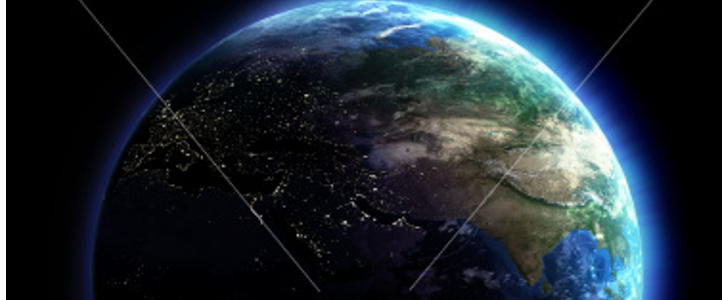
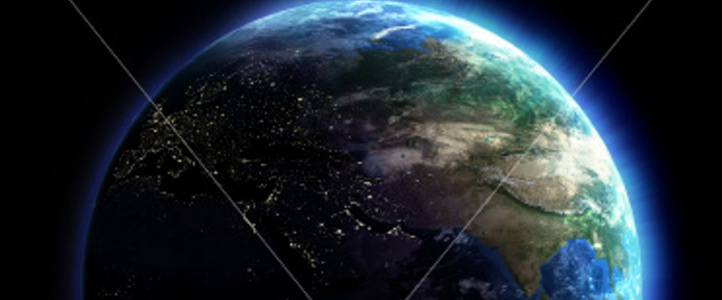
very close to finishing slideshow

diff --git a/fox_slideshow/show.js b/fox_slideshow/show.js
@@ -1,0 +1,157 @@
+var load = window.onload;
+window.onload = function() {
+    if(load) load(); //don't overwrite the previous onload event if it exists! just call in order
+    show_init();
+}
+
+var show = {
+    selected_index: -1,
+    hover_index: -1,
+    bgs: [], //references to bg divs
+    tabs: [], //reference to tab divs
+    flyouts: [], //references to flyout divs
+    flyout_wrapper: document.getElementById("show_flyout"),
+    bg_zindex: 100,
+    flyout_zindex: 200,
+    select: function(ix) {
+        var sx = this.selected_index;
+        if (sx == ix) return; //this tab is already selected
+        if(sx > -1) {
+            this.tabs[sx].className = "";
+        }
+        this.tabs[ix].className = "selected";
+        this.bg_zindex = (this.bg_zindex + 1) % 100;
+        this.bgs[ix].style.zIndex = this.bg_zindex;
+        this.selected_index = ix;
+        this.transition();
+    },
+
+    transition: function() {
+        var bg = this.bgs[this.selected_index],
+            update = function(y) {
+                bg.style.top = y;
+            };
+        kill_animation();
+        animate(-200, 0, update);
+
+    },
+
+    hover: function(ix) {
+        var hx = this.hover_index;
+
+        if (hx == this.selected_index) return; // ignore hover on selected tabs!
+
+        if (ix == null) { //no args, remove hover
+            console.log("MOUSEOUT");
+            if (hx > -1 ) {
+                this.tabs[hx].className = "";
+                this.flyout();
+            }
+             return;
+        }
+
+        this.tabs[ix].className = "hover";
+        this.flyout(ix);
+        this.hover_index = ix;
+    },
+
+    flyout: function(ix) {
+        var wrapper = this.flyout_wrapper,
+            update = function(x) { wrapper.style.right = x; };
+        if (ix == null) { //no args, fly in
+            kill_animation();
+            animate(0, -240, update);
+            return;
+        }
+        
+        if (ix != this.selected_index) {
+            this.flyout_zindex = (this.flyout_zindex + 1) % 200;
+            this.flyouts[ix].style.zIndex = this.flyout_zindex;
+
+            kill_animation();
+            animate(-240, 0, update);
+        }
+    }
+}
+
+function show_init() {
+    var root = document.getElementById("slideshow"),
+        child;
+
+    //
+    //initialize DOM object arrays in show
+    //
+
+    child = root.children[0]; //div.bgs
+    show.bgs = child.children; //all child divs
+
+    child = root.children[1]; //div.tabs
+    //add all but first and last child
+    for(var i=1, j=child.children.length-1; i<j; i++) {
+        show.tabs.push(child.children[i]);
+    }
+
+    child = root.children[2]; //div.flyout
+    show.flyout_wrapper = child;
+    show.flyouts = child.children; 
+    
+    //
+    //add event listeners
+    //
+    for(var i=0, j=show.tabs.length; i<j; i++) {
+        show.tabs[i].onclick = (function(ix) {
+            return function() {
+                show.select(ix);
+            }
+        })(i);
+
+        show.tabs[i].onmouseover = (function(ix) {
+            return function() {
+                show.hover(ix);
+            }
+        })(i);
+
+        show.tabs[i].onmouseout = function() { 
+            show.hover();
+        }
+    }
+    
+    show.select(0);
+
+}
+
+//bare bones animation:
+//we have animate() and kill_animation(), that's it.
+
+var __can_animate = false;
+function animate(from, to, update, callback) {
+	var diff = to - from,
+	    pos = from,
+	    time = window.easeTime || 100,
+	    frameRate = window.easeFrameRate || 10,
+	    numFrames = parseInt(time / frameRate) + 1,
+	    degree_unit = 1 / numFrames,
+	    frame_degree = degree_unit;
+
+    __can_animate = true;
+
+	(function () {
+        if(!__can_animate) {
+            update(to);
+            callback();
+            return;
+        }
+		update(from + diff * (2 * frame_degree / (frame_degree + 1)));
+		frame_degree += degree_unit;
+		if (numFrames--) {
+			setTimeout(arguments.callee, frameRate);
+		} else {
+            if (typeof (callback) == "function") callback();
+            update(to);
+		}
+	})();
+}
+
+function kill_animation() {
+    __can_animate = false;   
+}

diff --git a/fox_slideshow/show.html b/fox_slideshow/show.html
@@ -14,18 +14,16 @@ body > *:first-child {
     background: #ccc;
 }
 
-#bg_1 { background: no-repeat url(images/pic1.jpg)  }
-#bg_2 { background: no-repeat url(images/pic2.jpg) }
-#bg_3 { background: no-repeat url(images/pic3.jpg) }
-#bg_4 { background: no-repeat url(images/pic4.jpg) }
-#bg_5 { background: no-repeat url(images/pic5.jpg) }
-#bg_6 { background: no-repeat url(images/pic6.jpg) }
+#bg_1 { background: #000 no-repeat url(images/pic1.jpg) 0 0}
+#bg_2 { background: #000 no-repeat url(images/pic2.jpg) 0 0}
+#bg_3 { background: #000 no-repeat url(images/pic3.jpg) 0 0}
+#bg_4 { background: #000 no-repeat url(images/pic4.jpg) 0 0}
+#bg_5 { background: #000 no-repeat url(images/pic5.jpg) 0 0}
+#bg_6 { background: #000 no-repeat url(images/pic6.jpg) 0 0}
 
 </style>
 
-<script type='text/javascript'>
-    
-</script>
+<script type='text/javascript' src='show.js'></script>
 </head>
 
 <body>
@@ -45,15 +43,15 @@ body > *:first-child {
     <div class='tabs'> 
         <div class='top_taper'></div>
         <div>1</div>
-        <div class='selected'>2</div>
-        <div class='hover'>3</div>
+        <div>2</div>
+        <div>3</div>
         <div>4</div>
         <div>5</div>
         <div>6</div>
         <div class='bottom_taper'></div>
     </div>
     <!-- flyout info -->
-    <div class='flyout'> 
+    <div id='show_flyout' class='flyout'> 
         <div></div> 
         <div></div> 
         <div></div> 

diff --git a/fox_slideshow/show.css b/fox_slideshow/show.css
@@ -10,6 +10,7 @@
     position: absolute;
     width: 722px;
     height: 300px;
+    background: #000;
     clip: rect(0px, 722px, 300px, 0px);
 }
 
@@ -26,6 +27,7 @@
 }
 
 #slideshow .tabs > div {
+    cursor: pointer;
     width: 24px;
     height: 25px;
     text-align: right;
@@ -46,17 +48,28 @@
 }
 
 #slideshow .tabs > div.top_taper {
-    height: 32px;
+    cursor: auto;
+    height: 25px;
     background: url(images/tabs_sprite.png) no-repeat;
 }
 
 #slideshow .tabs > div.bottom_taper {
+    cursor: auto;
     height: 32px;
     background: url(images/tabs_sprite.png) no-repeat 0px -128px;
 }
 
 #slideshow .flyout {
+    cursor: pointer;
     z-index: 200;
+    width: 144px;
+    height: 190px;
+    position: absolute;
+    padding: 24px 40px 18px 26px;
+    background-color: #1A303A;
+    border: 1px solid white;
+    top: 18px;
+    right: -240px;
 }
 
 #slideshow .footer {
